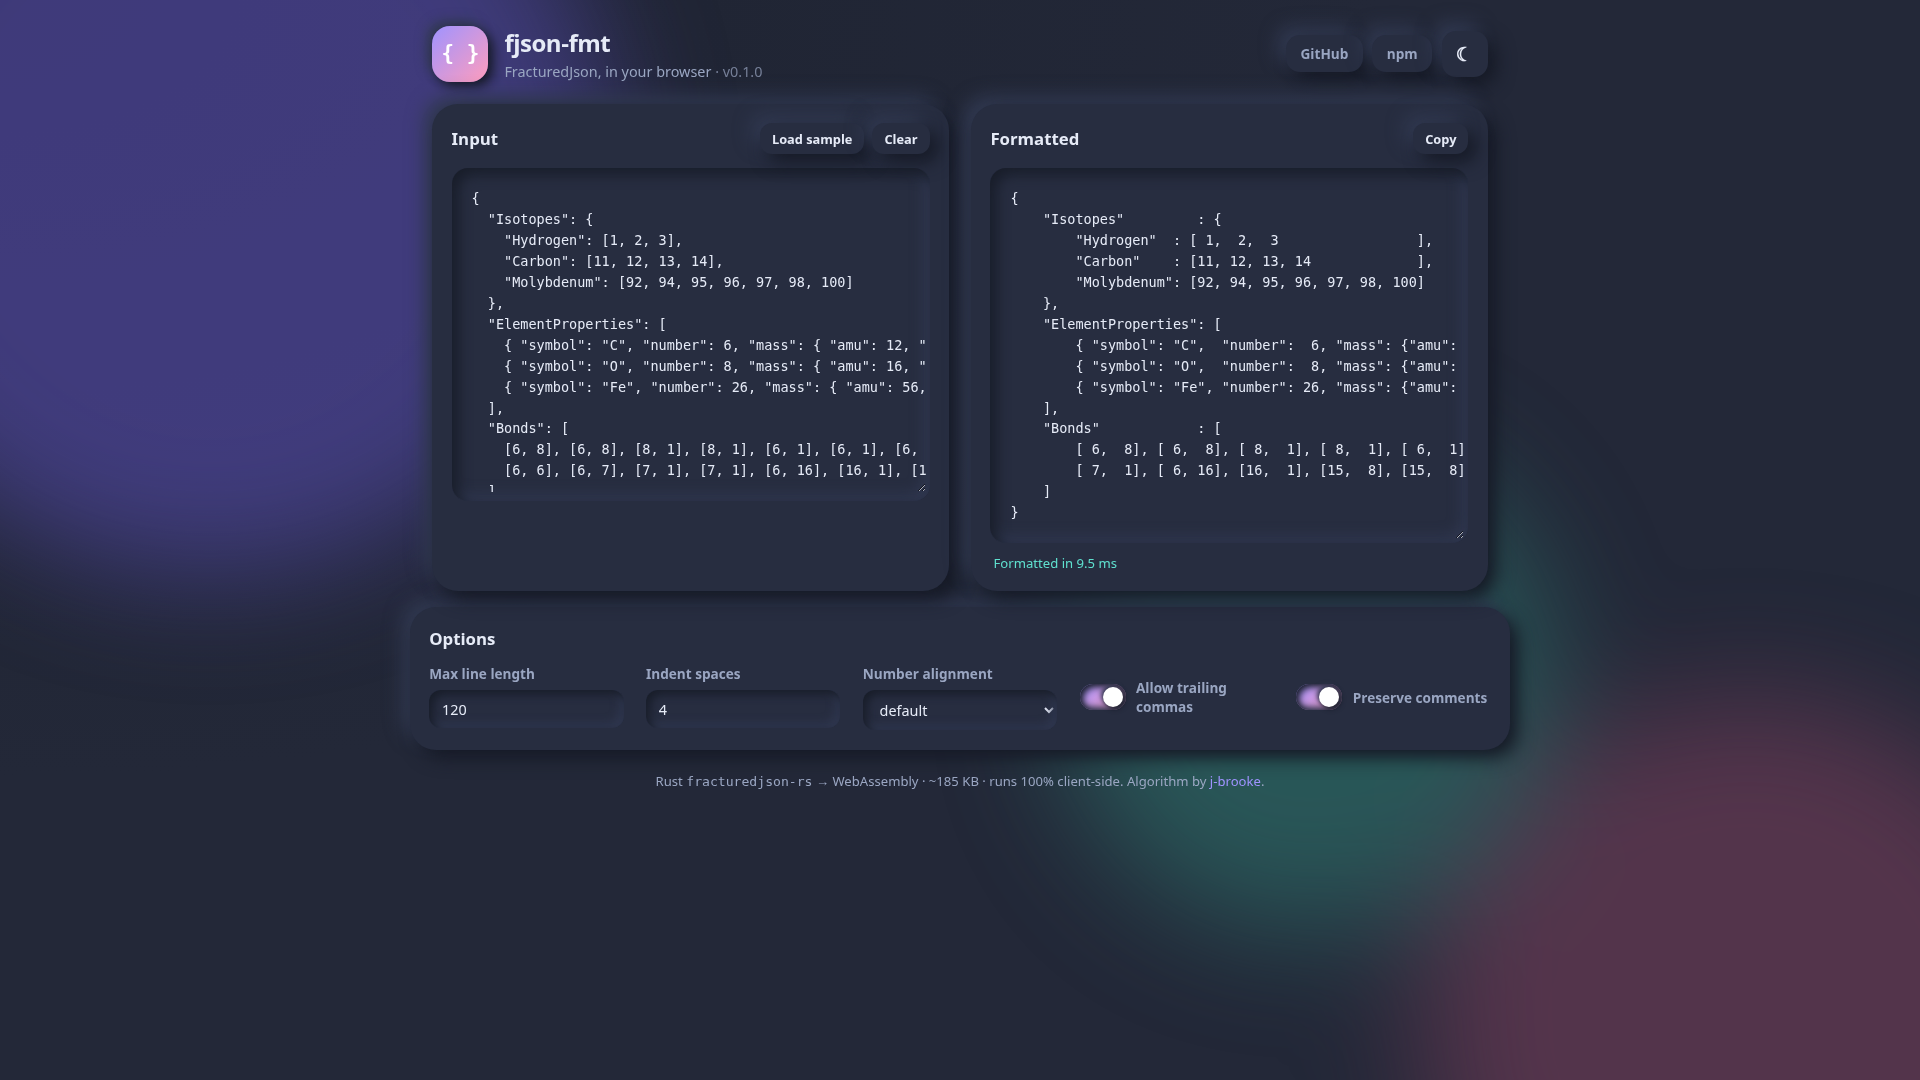
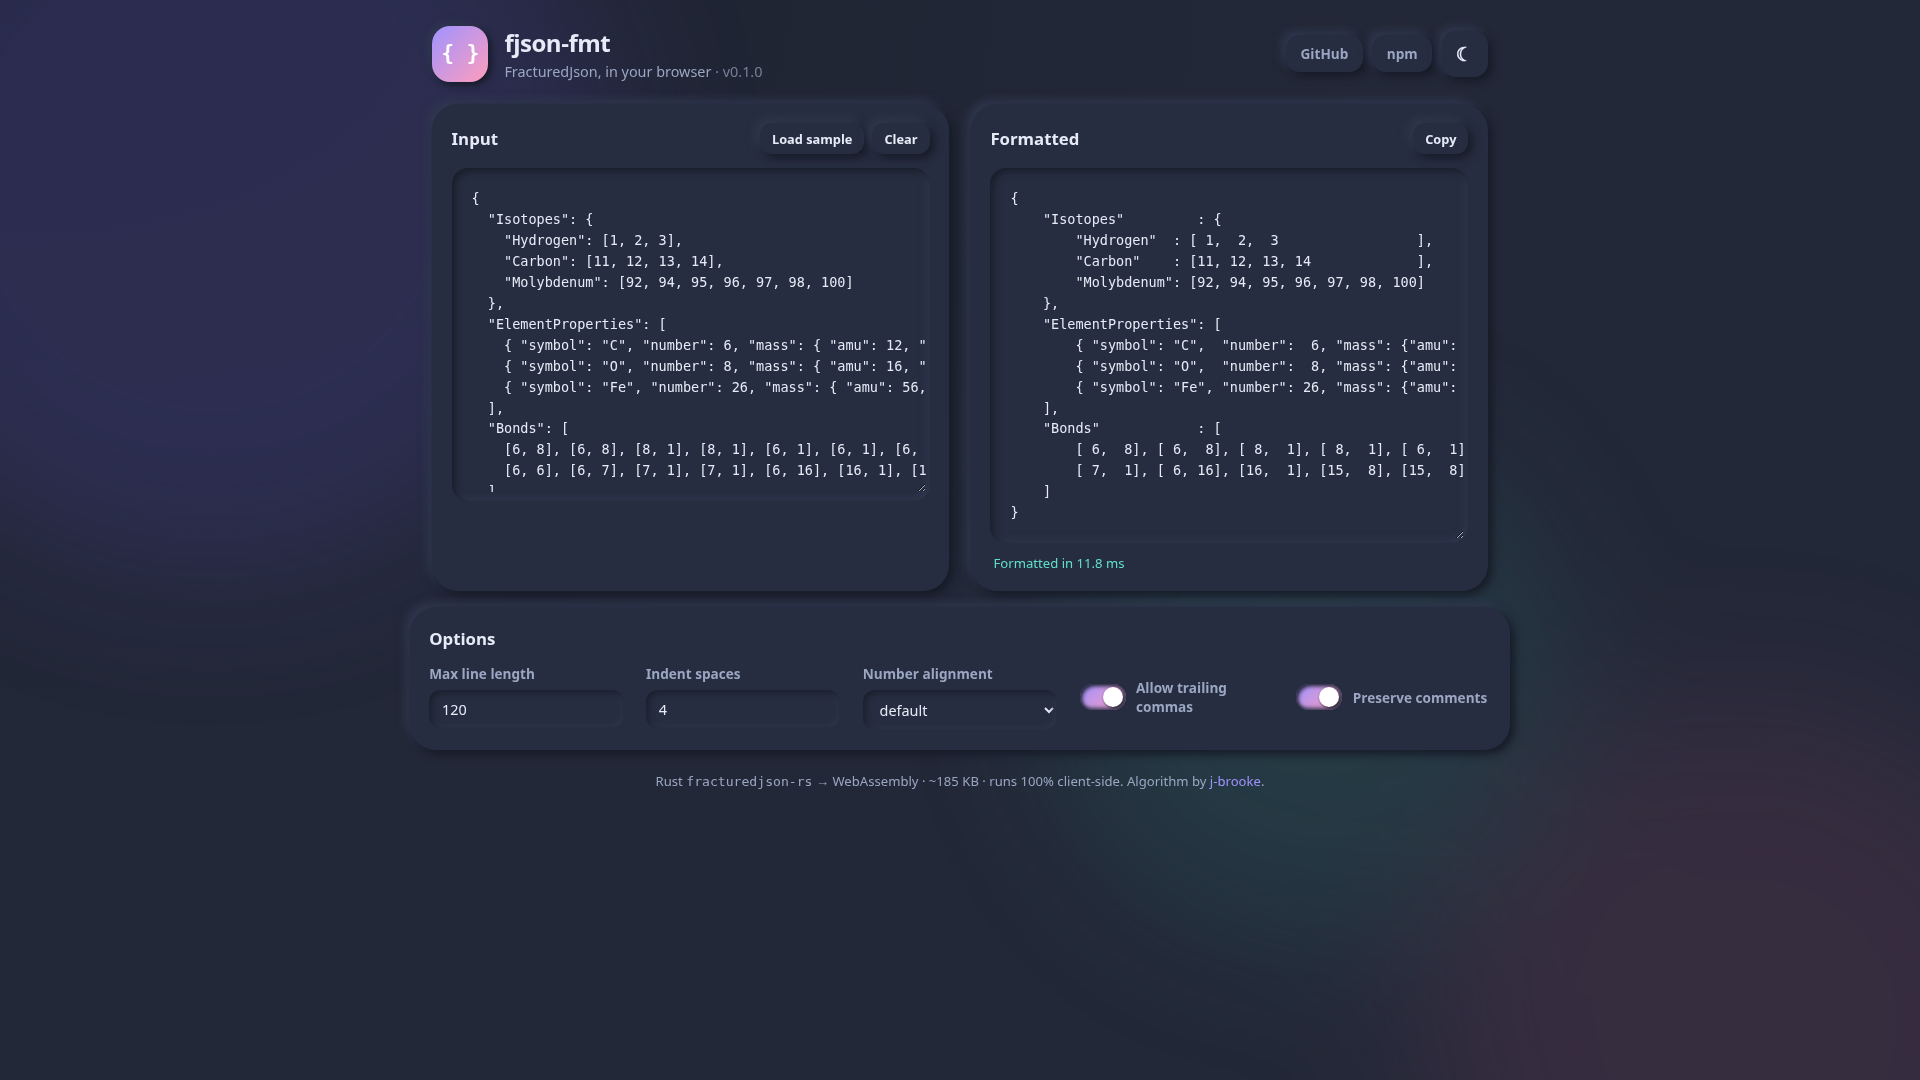
docs: tone down playground bg; link live Pages site in README + homepage

diff --git a/docs/styles.css b/docs/styles.css
@@ -61,7 +61,7 @@ body {
 }
 
 /* floating background blobs */
-.bg-orbs { position: fixed; inset: 0; z-index: -1; filter: blur(60px); opacity: .55; }
+.bg-orbs { position: fixed; inset: 0; z-index: -1; filter: blur(90px); opacity: .1; }
 .orb { position: absolute; border-radius: 50%; }
 .orb-1 { width: 42vmax; height: 42vmax; background: var(--orb-1); top: -12vmax; left: -10vmax; }
 .orb-2 { width: 34vmax; height: 34vmax; background: var(--orb-2); bottom: -14vmax; right: -8vmax; }
@@ -76,16 +76,16 @@ body {
   background: var(--surface);
   border: none;
   box-shadow:
-    8px 8px 18px var(--shadow-dark),
-    -8px -8px 18px var(--shadow-light);
+    4px 4px 10px var(--shadow-dark),
+    -4px -4px 10px var(--shadow-light);
 }
 
 .clay-inset {
   background: var(--surface);
   border-radius: var(--radius-sm);
   box-shadow:
-    inset 6px 6px 14px var(--inset-dark),
-    inset -6px -6px 14px var(--inset-light);
+    inset 3px 3px 7px var(--inset-dark),
+    inset -3px -3px 7px var(--inset-light);
 }
 
 /* ── layout ──────────────────────────────────────────────────────── */
@@ -100,7 +100,7 @@ body {
   width: 56px; height: 56px; border-radius: 18px;
   font: 700 1.3rem/1 var(--mono); color: #fff;
   background: linear-gradient(135deg, var(--accent), var(--accent-2));
-  box-shadow: 5px 5px 12px var(--shadow-dark), -5px -5px 12px var(--shadow-light);
+  box-shadow: 3px 3px 7px var(--shadow-dark), -3px -3px 7px var(--shadow-light);
 }
 h1 { margin: 0; font-size: 1.5rem; letter-spacing: -.02em; }
 .tagline { margin: .15rem 0 0; color: var(--text-soft); font-size: .9rem; }
@@ -138,7 +138,7 @@ pre#output { min-height: 320px; }
 .clay-btn:hover, .chip:hover { transform: translateY(-1px); }
 .clay-btn:active, .chip:active {
   transform: translateY(0);
-  box-shadow: inset 4px 4px 10px var(--inset-dark), inset -4px -4px 10px var(--inset-light);
+  box-shadow: inset 2px 2px 6px var(--inset-dark), inset -2px -2px 6px var(--inset-light);
 }
 .clay-btn.ghost { color: var(--text-soft); }
 .clay-btn.icon { width: 46px; height: 46px; padding: 0; display: grid; place-items: center; font-size: 1.2rem; }
@@ -154,7 +154,7 @@ pre#output { min-height: 320px; }
 .clay-field {
   border-radius: 12px; padding: .6rem .8rem; color: var(--text);
   font-family: var(--sans); font-size: .9rem;
-  box-shadow: inset 4px 4px 10px var(--inset-dark), inset -4px -4px 10px var(--inset-light);
+  box-shadow: inset 2px 2px 6px var(--inset-dark), inset -2px -2px 6px var(--inset-light);
   background: var(--surface);
 }
 .clay-field:focus { outline: 2px solid var(--accent); outline-offset: 1px; }
@@ -165,13 +165,13 @@ pre#output { min-height: 320px; }
 .track {
   position: relative; width: 46px; height: 26px; border-radius: 999px; flex: none;
   background: var(--surface);
-  box-shadow: inset 3px 3px 7px var(--inset-dark), inset -3px -3px 7px var(--inset-light);
+  box-shadow: inset 2px 2px 4px var(--inset-dark), inset -2px -2px 4px var(--inset-light);
   transition: background var(--speed);
 }
 .thumb {
   position: absolute; top: 3px; left: 3px; width: 20px; height: 20px; border-radius: 50%;
   background: var(--surface);
-  box-shadow: 2px 2px 5px var(--shadow-dark), -2px -2px 5px var(--shadow-light);
+  box-shadow: 1px 1px 3px var(--shadow-dark);
   transition: transform var(--speed), background var(--speed);
 }
 .switch input:checked + .track { background: linear-gradient(135deg, var(--accent), var(--accent-2)); }

diff --git a/README.md b/README.md
@@ -1,7 +1,7 @@
 # fjson-fmt
 
 A **Prettier-style `--check` + `--write` formatter for JSON** built on the
-[FracturedJson](https://j-brooke.github.io/FracturedJson/) algorithm — compact,
+[FracturedJson](https://j-brooke.github.io/FracturedJson/) algorithm - compact,
 human-readable JSON with smart line breaks and table-like alignment.
 
 The formatting engine is the Rust crate
@@ -27,7 +27,7 @@ It turns this:
 }
 ```
 
-using `npx fjson-fmt --stdin < example.json`, into this — compact, but with fields aligned like a table:
+using `npx fjson-fmt --stdin < example.json`, into this - compact, but with fields aligned like a table:
 
 ```json
 {
@@ -62,22 +62,24 @@ with FracturedJson.
 
 ## Browser playground
 
-A zero-backend playground lives in [`docs/`](docs/) and is meant to be served
-via GitHub Pages. The same Rust engine is built for the browser
+**[▶ Try it live: select.github.io/fjson-fmt](https://select.github.io/fjson-fmt/)**
+
+A zero-backend playground lives in [`docs/`](docs/) and is served via GitHub
+Pages. The same Rust engine is built for the browser
 (`wasm-pack build --target web`) and loaded as an ES module — the whole thing
-is ~185 KB of WASM and runs entirely client-side, with a claymorphism UI and a
+is ~185 KB of WASM and runs entirely client-side, with a claymorphism UI and a
 light/dark theme toggle.
 
-![Light theme](docs/screenshots/light.png)
-![Dark theme](docs/screenshots/dark.png)
+[![Playground](docs/screenshots/light.png)](https://select.github.io/fjson-fmt/)
 
 ```sh
 npm run build:web        # rebuild docs/pkg from the crate
 npx serve docs           # preview locally, then open the printed URL
 ```
 
-To publish: in the repo settings enable **Pages → Deploy from branch → `main` /
-`docs`**. Force a theme with `?theme=light` or `?theme=dark`.
+Deployed automatically on each `v*.*.*` release tag
+([`deploy-to-pages.yml`](.github/workflows/deploy-to-pages.yml)). Force a theme
+with `?theme=light` or `?theme=dark`.
 
 ## Install
 
@@ -91,7 +93,7 @@ npm i -D fjson-fmt   # ships prebuilt WASM; no Rust toolchain needed
 # Format files in place (default)
 fjson-fmt "**/*.json"
 
-# Verify formatting (CI) — exits 1 if anything would change
+# Verify formatting (CI) - exits 1 if anything would change
 fjson-fmt --check "**/*.json"
 
 # List files that differ (no writing)
@@ -118,7 +120,7 @@ Run alongside oxfmt:
 
 ## Programmatic API
 
-The package is **isomorphic** — the same import works in Node and in the
+The package is **isomorphic** - the same import works in Node and in the
 browser (or any bundler). Conditional `exports` route to a Node build (WASM
 loaded synchronously) or a web build (WASM fetched + instantiated once).
 
@@ -199,7 +201,7 @@ pnpm install              # dev dependencies (release-it, etc.)
 
 pnpm build:wasm           # rebuilds pkg/ from crate/
 pnpm test                 # node --test (CLI/engine glue, no toolchain)
-pnpm test:engine          # cargo test — FracturedJson engine suite (needs Rust)
+pnpm test:engine          # cargo test - FracturedJson engine suite (needs Rust)
 pnpm test:all             # both of the above
 ```
 
@@ -233,4 +235,4 @@ Rust toolchain.
 ## License
 
 MIT. The vendored engine in `crate/src/*.rs` (except `lib.rs`) is from
-`fcoury/fracturedjson-rs`, MIT © Felipe Coury — see `crate/UPSTREAM-LICENSE`.
+`fcoury/fracturedjson-rs`, MIT © Felipe Coury - see `crate/UPSTREAM-LICENSE`.